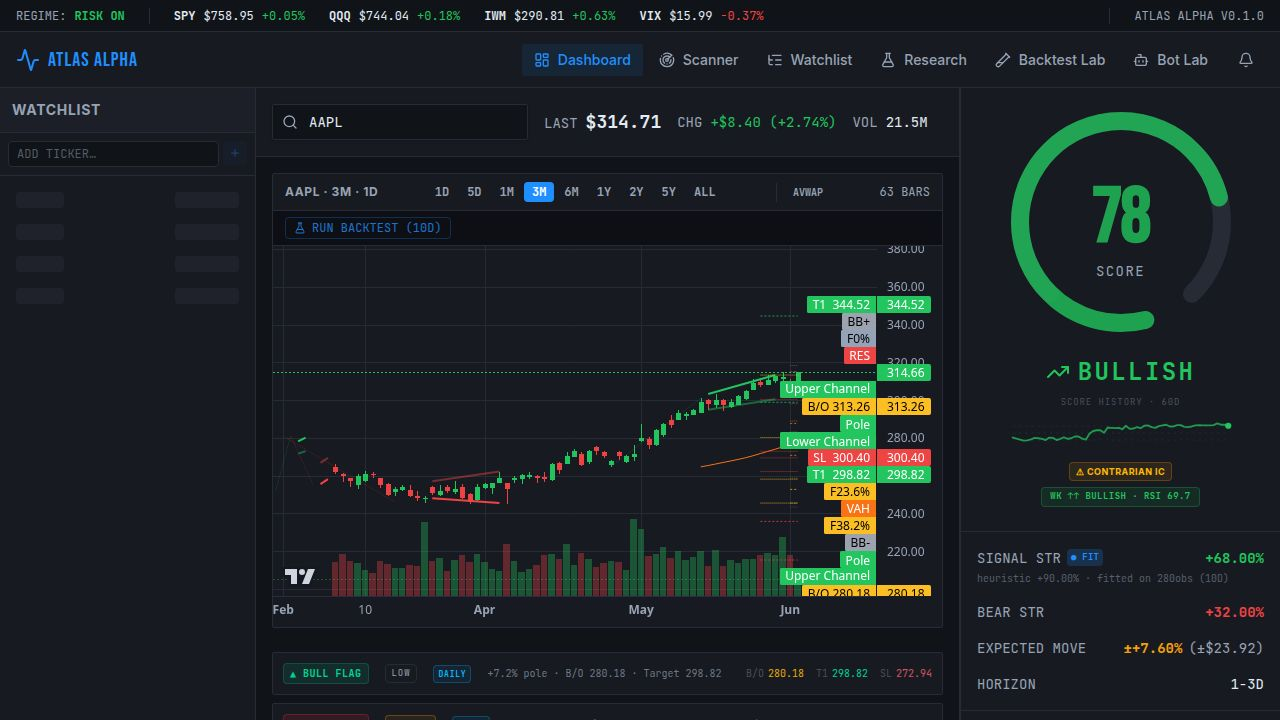
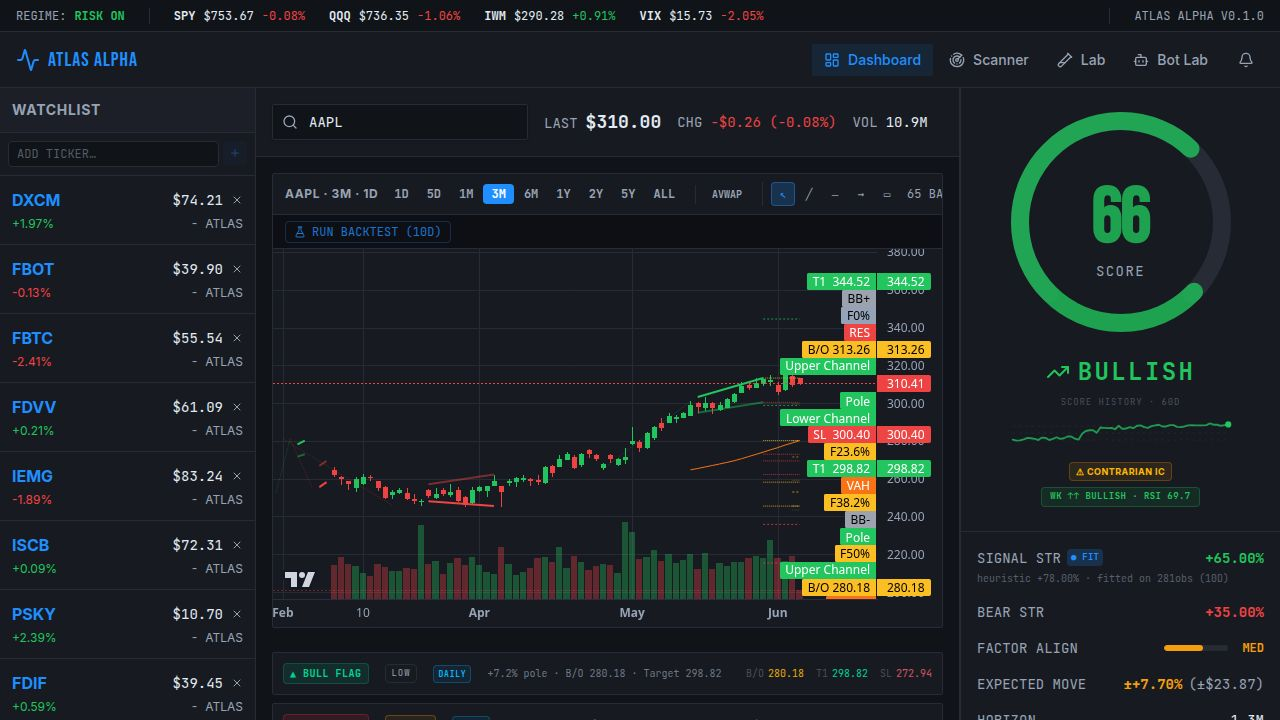
Increase the number of stocks and backtests displayed on the market scanner
Increase default and max results displayed per scanner tab from 25/50 to 100/250, and update the frontend to reflect these changes.

Replit-Commit-Author: Agent
Replit-Commit-Session-Id: d3c9561d-f006-479f-8424-df2f1f59bddd
Replit-Commit-Checkpoint-Type: full_checkpoint
Replit-Commit-Event-Id: 31522781-2b9b-4c62-9c82-11b013f21472
Replit-Commit-Screenshot-Url: https://storage.googleapis.com/screenshot-production-us-central1/aff0d65f-5b0c-475f-adcc-07df63d4bb2a/d3c9561d-f006-479f-8424-df2f1f59bddd/DOTCR4Z
Replit-Helium-Checkpoint-Created: true

diff --git a/artifacts/api-server/src/routes/scanner.ts b/artifacts/api-server/src/routes/scanner.ts
@@ -175,7 +175,7 @@ function scanResponse(filter: Filter, sort: Sorter, limit: number) {
 // ── Routes ────────────────────────────────────────────────────────────────────
 
 router.get("/scanner/top-longs", (req, res): void => {
-  const limit = Math.min(Number(req.query.limit) || 25, 50);
+  const limit = Math.min(Number(req.query.limit) || 100, 250);
   try {
     res.json(scanResponse(
       a => a.atlasScore.bullishProbability > 65 && a.atlasScore.confidenceScore > 60,
@@ -189,7 +189,7 @@ router.get("/scanner/top-longs", (req, res): void => {
 });
 
 router.get("/scanner/top-shorts", (req, res): void => {
-  const limit = Math.min(Number(req.query.limit) || 25, 50);
+  const limit = Math.min(Number(req.query.limit) || 100, 250);
   try {
     res.json(scanResponse(
       a => a.atlasScore.bearishProbability > 65 && a.atlasScore.confidenceScore > 60,
@@ -203,7 +203,7 @@ router.get("/scanner/top-shorts", (req, res): void => {
 });
 
 router.get("/scanner/breakouts", (req, res): void => {
-  const limit = Math.min(Number(req.query.limit) || 25, 50);
+  const limit = Math.min(Number(req.query.limit) || 100, 250);
   try {
     res.json(scanResponse(
       a => {
@@ -221,7 +221,7 @@ router.get("/scanner/breakouts", (req, res): void => {
 });
 
 router.get("/scanner/breakdowns", (req, res): void => {
-  const limit = Math.min(Number(req.query.limit) || 25, 50);
+  const limit = Math.min(Number(req.query.limit) || 100, 250);
   try {
     res.json(scanResponse(
       a => {
@@ -239,7 +239,7 @@ router.get("/scanner/breakdowns", (req, res): void => {
 });
 
 router.get("/scanner/gamma-squeeze", (req, res): void => {
-  const limit = Math.min(Number(req.query.limit) || 25, 50);
+  const limit = Math.min(Number(req.query.limit) || 100, 250);
   try {
     res.json(scanResponse(
       a => a.volume.relativeVolume > 2 && a.atlasScore.bullishProbability > 60 && a.options.unusualActivity,
@@ -253,7 +253,7 @@ router.get("/scanner/gamma-squeeze", (req, res): void => {
 });
 
 router.get("/scanner/short-squeeze", (req, res): void => {
-  const limit = Math.min(Number(req.query.limit) || 25, 50);
+  const limit = Math.min(Number(req.query.limit) || 100, 250);
   try {
     res.json(scanResponse(
       a => a.volume.relativeVolume > 1.5 && a.atlasScore.bullishProbability > 55 &&
@@ -268,7 +268,7 @@ router.get("/scanner/short-squeeze", (req, res): void => {
 });
 
 router.get("/scanner/institutional-accumulation", (req, res): void => {
-  const limit = Math.min(Number(req.query.limit) || 25, 50);
+  const limit = Math.min(Number(req.query.limit) || 100, 250);
   try {
     res.json(scanResponse(
       a => a.volume.obvTrend === "rising" && a.volume.chaikinMoneyFlow > 0.05 &&
@@ -283,7 +283,7 @@ router.get("/scanner/institutional-accumulation", (req, res): void => {
 });
 
 router.get("/scanner/mean-reversion", (req, res): void => {
-  const limit = Math.min(Number(req.query.limit) || 25, 50);
+  const limit = Math.min(Number(req.query.limit) || 100, 250);
   try {
     res.json(scanResponse(
       // Mean-reversion candidates: stocks that are EITHER
@@ -309,7 +309,7 @@ router.get("/scanner/mean-reversion", (req, res): void => {
 // Short setup: same volatility conditions + price extended above SMA200.
 
 router.get("/scanner/gap-setup-long", (req, res): void => {
-  const limit = Math.min(Number(req.query.limit) || 25, 50);
+  const limit = Math.min(Number(req.query.limit) || 100, 250);
   try {
     res.json(gapSetupScanResponse(
       a => {
@@ -351,7 +351,7 @@ router.get("/scanner/gap-setup-long", (req, res): void => {
 });
 
 router.get("/scanner/gap-setup-short", (req, res): void => {
-  const limit = Math.min(Number(req.query.limit) || 25, 50);
+  const limit = Math.min(Number(req.query.limit) || 100, 250);
   try {
     res.json(gapSetupScanResponse(
       a => {
@@ -431,7 +431,7 @@ function toKeyLevelRow(a: AnalysisResult): object {
 }
 
 router.get("/scanner/key-levels", (req, res): void => {
-  const limit = Math.min(Number(req.query.limit) || 25, 50);
+  const limit = Math.min(Number(req.query.limit) || 100, 250);
   try {
     const job = getOrStartScanJob();
     const rows = job.analyses
@@ -458,7 +458,7 @@ router.get("/scanner/key-levels", (req, res): void => {
 });
 
 router.get("/scanner/gap-up", (req, res): void => {
-  const limit = Math.min(Number(req.query.limit) || 25, 50);
+  const limit = Math.min(Number(req.query.limit) || 100, 250);
   try {
     res.json(scanResponse(
       a => {
@@ -475,7 +475,7 @@ router.get("/scanner/gap-up", (req, res): void => {
 });
 
 router.get("/scanner/gap-down", (req, res): void => {
-  const limit = Math.min(Number(req.query.limit) || 25, 50);
+  const limit = Math.min(Number(req.query.limit) || 100, 250);
   try {
     res.json(scanResponse(
       a => {
@@ -618,7 +618,7 @@ router.post("/scanner/custom", (req, res): void => {
     }
   }
 
-  const limit = Math.min(Number(rawLimit) || 50, 100);
+  const limit = Math.min(Number(rawLimit) || 100, 250);
 
   try {
     const job = getOrStartScanJob();
@@ -660,7 +660,7 @@ router.post("/scanner/custom", (req, res): void => {
 // bearish candles and wick ratio. Min score 45 to appear; sorted desc by score.
 
 router.get("/scanner/reversal-short", (req, res): void => {
-  const limit = Math.min(Number(req.query.limit) || 25, 50);
+  const limit = Math.min(Number(req.query.limit) || 100, 250);
   try {
     const job  = getOrStartScanJob();
     const rows = job.analyses

diff --git a/artifacts/atlas-alpha/src/pages/Scanner.tsx b/artifacts/atlas-alpha/src/pages/Scanner.tsx
@@ -1079,7 +1079,7 @@ function CustomScanTab({ onTickerClick }: { onTickerClick?: (ticker: string) => 
 // ── Page ─────────────────────────────────────────────────────────────────────
 
 export default function Scanner() {
-  const limit = 25;
+  const limit = 100;
   const [longSignal, setLongSignal] = useState<string>("longs");
   const [shortSignal, setShortSignal] = useState<string>("shorts");
   const qOpts = (qk: readonly unknown[]) => ({